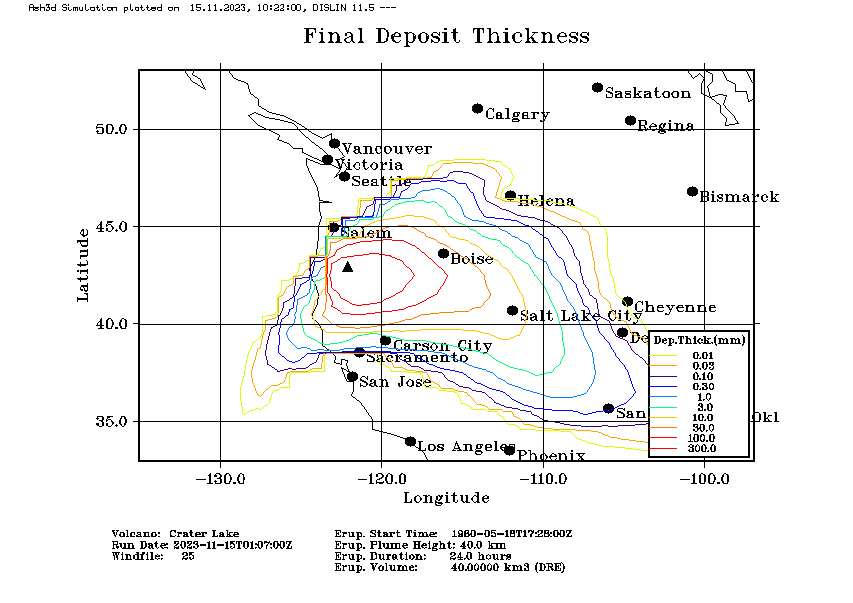
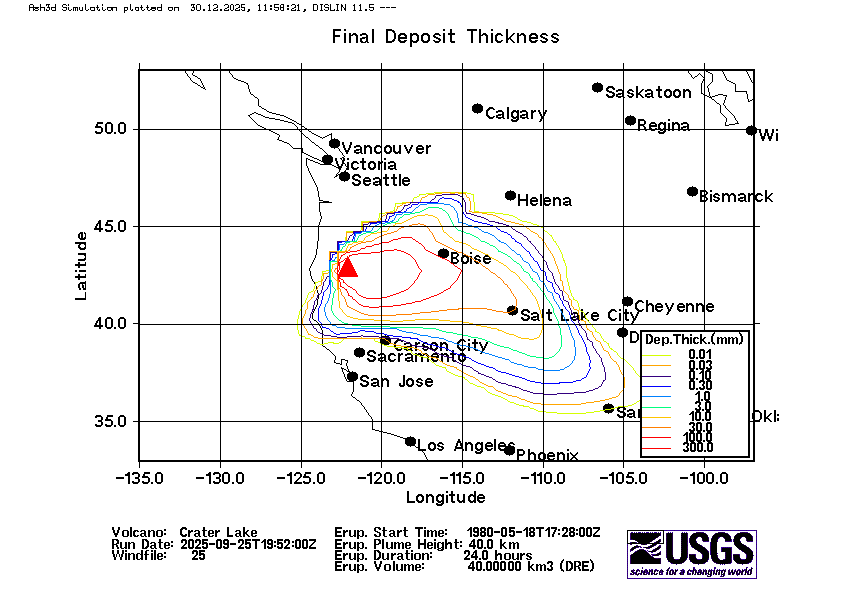
A few tweaks to graphics; some edits to documentation.

diff --git a/README.md b/README.md
@@ -16,9 +16,6 @@ duration. Multiple eruptions separated in time may be included in a single simul
 For larger events, an umbrella source can be used to account for the radial spreading
 of the cloud.
 
-The software is written in Fortran 2008 and is designed for a Linux system, although we
-have had no trouble building the software on MacOS or Microsoft Windows.
-
 For details on usage, please see the [User's Guide](doc/UsersGuide.md)
 and look through the example programs.
 
@@ -56,13 +53,14 @@ installed, if possible:
             shapefile output.
 5. gnuplot: This is the default graphics package for creating plots directly from Ash3d.
 6. dislin : This is an alternate graphics package for creating plots from Ash3d (preferred for Windows),
-   available from `https://www.dislin.de`
+            available from `https://www.dislin.de`.
 7. plplot : Another alternate graphics package for creating plots from Ash3d (also works on Windows).
+8. GMT    : This mapping package is also optionally used in post-processing.
 
 All of these packages (except dislin) are available on Red Hat and Ubuntu systems and can be installed
 using the standard distribution software installer (yum/dnf for RedHat systems or apt for
 Ubunto). For some of these packages and for some distributions, you might need to enable
-extra repositories, such as epel and powertools/CRB (for Red Hat systems)
+extra repositories, such as epel and powertools/CRB (for Red Hat systems).  
 
 On RedHat-based systems, these can be installed with:  
 `sudo dnf install lapack lapack-devel blas blas-devel`  
@@ -105,7 +103,7 @@ resulting ASCII output files, reporting PASS or FAIL. These tests are described 
 output. The test cases in 
 `tests/test_04` require that the NCEP 50-year reanalysis data files for the year 1980
 be stored in `/data/WindFiles/NCEP/1980`. Assuming MetReader was installed in the default
-location, these reanayalsis files can be downloaded by running the following script
+location, these reanalysis files can be downloaded by running the following script
 installed when MetReader was installed.  
 `/opt/USGS/bin/autorun_scripts/get_NCEP_50YearReanalysis.sh 1980`  
 This script expects that the directories `/data/WindFiles/NCEP` and
@@ -149,7 +147,7 @@ are compared with cloud outlines from satellite observations presented in
 [Mastin and Van Eaton, 2020](https://doi.org/10.3390/atmos11101038).
 
 The validation tests above demonstrate the utility of Ash3d in modeling volcanic
-ash cloud transport and deposition for a variety of erpution scenarios, compared
+ash cloud transport and deposition for a variety of eruption scenarios, compared
 with several types of observations. Verification tests, which demonstrate that
 Ash3d solves the equations described in [Schwaiger et al.](https://doi.org/10.1029/2011JB008968),
 can be found in the repository
@@ -170,9 +168,9 @@ variables to edit are in the top block of the makefile up to the lines:
 
 The following are the variables available to edit:  
 
-- `SYSTEM      = [gfortran] or ifort`  
+- `SYSTEM      = [gfortran], ifort, aocc, or nvhpc`  
               This controls which compiler to use and which libraries to link.
-              If you use a different compiler than these two, you will have to
+              If you use a different compiler than these, you will have to
               edit the variables in the `SYSTEM` blocks to suit your system.  
 - `RUN         = DEBUG, PROF, [OPT], or OMPOPT`  
               This variable sets which set of compiler flags will be used for
@@ -218,7 +216,7 @@ The following are the variables available to edit:
                min/max in x,y,z of the region where ash concentration exceeds
                some threshold.  
 - `USEZIP      = T or [F]`  
-              Zip is used to convert kml to kml and to bundle linked graphics,
+              Zip is used to convert kml to kmz and to bundle linked graphics,
               such as time-series ash accumulation plots, together with the kml
               file. Set this to F if zip is not installed on this system.
 - `USEPLPLOT   = T or [F]`  
@@ -262,11 +260,15 @@ all the information of these output products along with 3-D variables for transi
 concentrations. If this netcdf file is written, the post-processing tool `Ash3d_PostProc`,
 can be used to write ASCII, binary, kml, shapefiles, or png images of output variables.
 
-To compile this tool, make sure the makefile variables `USEPLPLOT` and `USEDISLIN`
+To compile this tool, and if you are using the dislin and/or the plplot packages,
+make sure the makefile variables `USEPLPLOT` and `USEDISLIN`
 match your system and that the paths of the include directories and libraries are correct
 for your system.
 Then type:  
 `make postproc`  
+
+If you do not use dislin or plplot, several alternative packages will be built in case the
+needed packages are on your system, including: gnuplot, GMT, matlab/octave, python/cartopy.
 
 Usage
 -----

diff --git a/doc/ControlFileFormat.md b/doc/ControlFileFormat.md
@@ -422,12 +422,12 @@ value). Only the parameters to be reset need to be listed.
 `k_entrainment_umb    = 0.1`  
 `SuzK_umb             = 12.0`  
 `useMoistureVars      = F`  
-`useVz_rhoG           = T`  
 `useWindVars          = 0`  
 `useOutprodVars       = 1`  
 `useRestartVars       = 0`  
+`useVz_rhoG           = T`
 `cdf_institution      = USGS`  
-`cdf_run_class        = Analysis`  
+`cdf_run_class        = 1`  
 `cdf_url              = https://vsc-ash.wr.usgs.gov/ash3d-gui`  
 `*******************************************************************************`  
 
@@ -437,7 +437,7 @@ Topography can be included in Ash3d by including the following optional block.
 `OPTMOD=TOPO`  
 `yes 2                         # use topography?; z-mod (0=none,1=shift,2=sigma)`  
 `1 1.0                         # Topofile format, smoothing radius`  
-`GEBCO_08.nc                   # Topofile name`  
+`GEBCO_2023.nc                 # Topofile name`  
 `*******************************************************************************`  
 
 Line 1 indicates whether or not to use topography followed by the integer flag
@@ -468,6 +468,7 @@ conditions (wind shear, boundary layer processes), can be included with the foll
 optional block.  
 `******************* BLOCK 10+ *************************************************`  
 `OPTMOD=VARDIFF`  
+`yes                         # indicates whether or not to write VarDiff variables to the output file`
 `yes 2 0.2                   # use horizontal variable diffusivity`  
 `yes                         # use vertical variable diffusivity`  
 `4                           # boundary layer model`  
@@ -477,28 +478,32 @@ optional block.
 `0.25                        # RI_CRIT`  
 `*******************************************************************************`  
 
-Line 1 indicates whether or not to use horizontal diffusivity followed by the type ID and value.  
+Line 1 indicates whether or not to write VarDiff variables to the output file.
+
+Line 2 indicates whether or not to use horizontal diffusivity followed by the type ID and value.  
 1. Constant horizontal diffusivity with specified value (m2/s)  
 2. Smagorinsky model with coefficient C (~0.2)  
 3. Pielke model with coefficient C (~0.2)  
 
-Line 2 indicates whether or not to use vertical diffusivity.  
-Line 3 indicates the boundary layer model and value (if model requires).  
+Line 3 indicates whether or not to use vertical diffusivity.  
+Line 4 indicates the boundary layer model and value (if model requires).  
 1. Vertical diffusivity constant in boundary layer  
 2. No boundary layer is identified; Free-air vertical diffusivity used throughout  
 3. Troen and Mahrt  
 4. Ulke  
 5. Shir / Businger,Ayer  
 
-Line 4 indicates the Free-Air model and value (if model requires).  
+Line 5 indicates the Free-Air model and value (if model requires).  
 1. Vertical diffusivity constant in region above boundary layer (Free-Air).  
-2. F(Ri)=Jacobson  
-3. F(Ri)=Collin  
-4. F(Ri)=Piedelievre  
+2. F(Ri)=Louis  
+3. F(Ri)=Stull  
+4. F(Ri)=Betts  
+5. F(Ri)=Hong
+6. F(Ri)=Collins
 
-Line 5 contains the von Karman constant  
-Line 6 contains the free-air mixing length (m)  
-Line 7 is the critical Richardson number used in calculating atmospheric stability.  
+Line 6 contains the von Karman constant  
+Line 7 contains the free-air mixing length (m)  
+Line 8 is the critical Richardson number used in calculating atmospheric stability.  
 
 
 

diff --git a/doc/PostProc.md b/doc/PostProc.md
@@ -9,7 +9,8 @@ and a kml/kmz file showing the transient ash accumulation at airports or point-o
 interest. Additionally, 3d transient data can be written in ASCII, binary
 or NetCDF formats. NetCDF is the preferred output format as the full content of the
 Ash3d run is written to this file, including all the information necessary to
-recreate the input file, the state of all environment variables controlling the
+recreate the input file (via the tool `Ash3d_NetCDF_GenCTR`), the state of all
+environment variables controlling the
 run, as well as additional information about the run (date, time, user,
 path, hostname, etc.).
 This NetCDF file also contains all the data needed to recreate any of the
@@ -24,8 +25,9 @@ plotting software. Both `dislin` and `plplot` are available as libraries and can
 be linked to `Ash3d_PostProc` at compilation time. `dislin` includes the feature
 where contour data can be accessed by `Ash3d_PostProc` and used to generate
 shapefiles. This is the preferred means of generating shapefiles on a Microsoft
-Windows system. `Ash3d_PostProc` can also generate maps using `gnuplot` and
-Generic Mapping Tools (`GMT`) via the writing and execution of temporary scripts.
+Windows system. `Ash3d_PostProc` can also generate maps using `gnuplot`,
+Generic Mapping Tools (`GMT`), MatLab/Octave or python/cartopy via the
+writing and execution of temporary scripts.
 
 ## Running Ash3d_PostProc with command-line options
 
@@ -38,10 +40,12 @@ Minimal instructions
 for running this tool are available by running the program with a `-h` as
 the only argument  
 `Ash3d_PostProc -h`  
-` Dislin   T`  
-` Plplot   T`  
-` Gnuplot  T`  
-` GMT      T`  
+` Dislin         T`  
+` Plplot         T`  
+` Gnuplot        T`  
+` GMT            T`  
+` matlab/octave  T`  
+` python/cartopy T`  
 `                                                             `  
 ` Ash3d post-processing tool: Ash3d_PostProc                  `  
 `                                                             `  
@@ -83,12 +87,15 @@ and the availability of the libraries. These can alway be overwritten at
 run-time with the environment variable `ASH3DPLOT`,
 where: 1=[dislin](Figs/Ash3d_Deposit____final_dislin.png), 2=[plplot](Figs/Ash3d_Deposit____final_plplot.png),
 3=[gnuplot](Figs/Ash3d_Deposit____final_gnuplot.png),
-and 4=[GMT](Figs/Ash3d_Deposit____final_gmt.png).  
+4=[GMT](Figs/Ash3d_Deposit____final_gmt.png), 5=[MatLab](Figs/Ash3d_Deposit____final_matlab.png),
+and 6=[python/cartopy](Figs/Ash3d_Deposit____final_python.png).  
 
 `ASH3DPLOT=3 Ash3d_PostProc 3d_tephra_fall.nc 5 3`  
 
-To generate a shapefile of the cloud load at step 3 of the output file, enter:  
+To generate a shapefile (output format=5) of the cloud load (var=12) at step 3 of the output file, enter:  
 `Ash3d_PostProc 3d_tephra_fall.nc 12 5 3`  
+
+Note that currently, shapefile can only be generated if using dislin, gnuplot or GMT.
 
 ## Running Ash3d_PostProc with a control file
 
@@ -150,4 +157,6 @@ Line 13 contains the `nlev` floating point values for the contour levels in the
 default units of the output variable.  
 Lines 14, 15, and 16 are the `nlev` integer values of the RGB components of the colors (0-255).
 
+An example of usage of `Ash3d_PostPproc` is provided in
+`examples/Spurr_19920818/Proc/Gen_PostProc_plots.sh`.  
 

diff --git a/doc/UsersGuide.md b/doc/UsersGuide.md
@@ -5,9 +5,13 @@ Please see [README.md](../README.md) for instructions on installing Ash3d.
 
 Once the Ash3d software is built and installed, the following executables are
 copied to `$(INSTALLDIR)/bin/`:  
- `Ash3d`                   : main Ash3d program  
- `Ash3d_PostProc`          : Post-processing program for netcdf output.  
- `tools/Ash3d_ASCII_check` : program for calculating L2 norm of two ASCII output files.  
+ `Ash3d`                           : main Ash3d program  
+ `Ash3d_PostProc`                  : Post-processing program for netcdf output.  
+ `tools/Ash3d_ASCII_check`         : program for calculating L2 norm of two ASCII output files.  
+ `tools/Ash3d_ASCII_DepThin`       : program for calculating L2 norm of two ASCII output files.
+ `tools/Ash3d_NetCDF_GenCTR`       : program for calculating L2 norm of two ASCII output files.
+ `tools/Ash3d_ASCII_GenCTR`        : program for calculating L2 norm of two ASCII output files.
+ `tools/Ash3d_GenASCII_from_table` : program for calculating L2 norm of two ASCII output files.
 
 ## Running Ash3d on the command line
 
